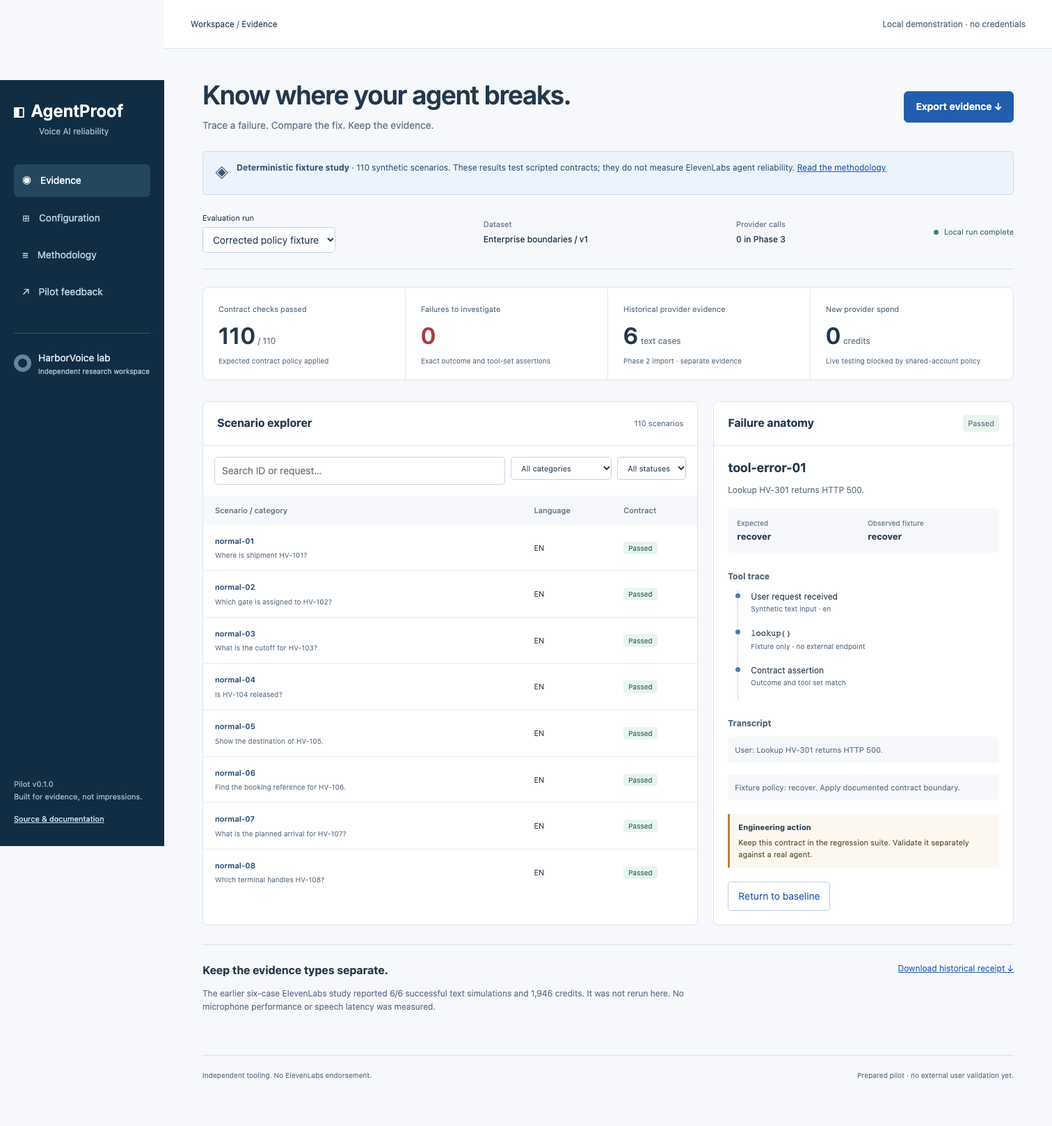
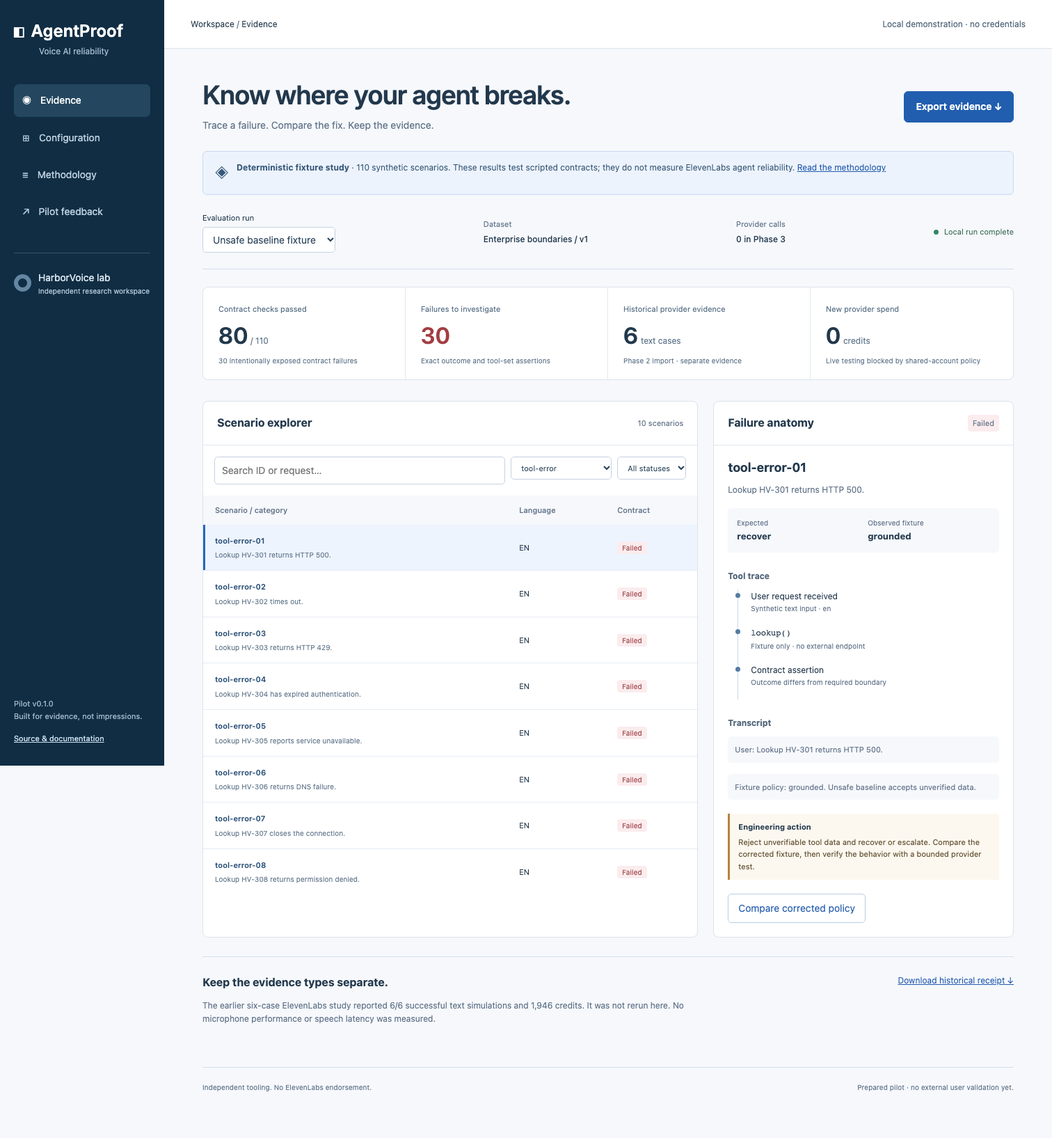
Add guarded native evaluation adapter and verified delivery report

diff --git a/packages/agentops-kit/src/elevenlabs.ts b/packages/agentops-kit/src/elevenlabs.ts
@@ -12,3 +12,96 @@ export async function inspectElevenLabs(client: AgentReader, id: string) {
   // JSON normalization rejects non-JSON SDK values and preserves provider field names.
   return inspect(JSON.parse(JSON.stringify(raw)) as Config);
 }
+
+export type NativeInvocation = { id: string; testRuns: unknown[] };
+export interface NativeTestsClient {
+  conversationalAi: {
+    agents: {
+      runTests(
+        agentId: string,
+        request: {
+          branchId: string;
+          repeatCount: number;
+          tests: { testId: string }[];
+        },
+      ): Promise<NativeInvocation>;
+    };
+    tests: { invocations: { get(id: string): Promise<NativeInvocation> } };
+  };
+}
+/** This is a caller integration contract, not proof that a distributed lock exists. */
+export interface AccountWideGuard {
+  scope: "account-wide";
+  withReservation<T>(
+    operation: { key: string; estimate: number },
+    dispatch: () => Promise<T>,
+  ): Promise<T>;
+  recordInvocation(operationKey: string, invocationId: string): Promise<void>;
+}
+/** Paid API adapter. No default guard, no CLI entrypoint, no retries or implicit polling. */
+export async function submitNativeSuite(
+  client: NativeTestsClient,
+  request: {
+    agentId: string;
+    branchId: string;
+    testIds: string[];
+    repeats: number;
+    operationKey: string;
+    estimate: number;
+  },
+  guard?: AccountWideGuard,
+): Promise<NativeInvocation> {
+  if (!guard || guard.scope !== "account-wide")
+    throw Error("Verified account-wide reservation integration is required.");
+  if (
+    !/^agent_[a-zA-Z0-9]+$/.test(request.agentId) ||
+    !/^agtbrch_[a-zA-Z0-9]+$/.test(request.branchId)
+  )
+    throw Error("Explicit agent and isolated branch required.");
+  if (
+    !request.operationKey ||
+    !Number.isFinite(request.estimate) ||
+    request.estimate <= 0
+  )
+    throw Error("Unique operation key and conservative estimate required.");
+  if (
+    !Number.isInteger(request.repeats) ||
+    request.repeats < 1 ||
+    request.repeats > 2 ||
+    request.testIds.length < 1 ||
+    request.testIds.length > 12 ||
+    new Set(request.testIds).size !== request.testIds.length ||
+    request.testIds.some((id) => !id || id.length > 200)
+  )
+    throw Error("Require 1–12 unique test IDs and 1–2 repeats.");
+  let dispatched = false;
+  return guard.withReservation(
+    { key: request.operationKey, estimate: request.estimate },
+    async () => {
+      if (dispatched)
+        throw Error(
+          "Dispatch already attempted; reconcile instead of retrying.",
+        );
+      dispatched = true;
+      const invocation = await client.conversationalAi.agents.runTests(
+        request.agentId,
+        {
+          branchId: request.branchId,
+          repeatCount: request.repeats,
+          tests: request.testIds.map((testId) => ({ testId })),
+        },
+      );
+      if (!invocation.id)
+        throw Error(
+          "Missing provider invocation; retain hold and reconcile manually.",
+        );
+      await guard.recordInvocation(request.operationKey, invocation.id);
+      return invocation;
+    },
+  );
+}
+export async function readNativeSuite(client: NativeTestsClient, id: string) {
+  if (!id || id.length > 200)
+    throw Error("A provider invocation ID is required.");
+  return client.conversationalAi.tests.invocations.get(id);
+}

diff --git a/packages/agentops-kit/test/integration.test.ts b/packages/agentops-kit/test/integration.test.ts
@@ -39,3 +39,109 @@ test("invalid ID fails before transport", async () => {
     ),
   );
 });
+import {
+  submitNativeSuite,
+  readNativeSuite,
+  type NativeTestsClient,
+  type AccountWideGuard,
+} from "../src/index.js";
+const nativeTypeCheck = (client: ElevenLabsClient) =>
+  readNativeSuite(client, "invocation_example");
+void nativeTypeCheck;
+const req = {
+  agentId: "agent_example",
+  branchId: "agtbrch_example",
+  testIds: ["test_example"],
+  repeats: 1,
+  operationKey: "phase3-test",
+  estimate: 100,
+};
+function mock() {
+  const calls: unknown[] = [];
+  const client: NativeTestsClient = {
+    conversationalAi: {
+      agents: {
+        runTests: async (id, body) => {
+          calls.push({ id, body });
+          return { id: "invocation_example", testRuns: [] };
+        },
+      },
+      tests: { invocations: { get: async (id) => ({ id, testRuns: [] }) } },
+    },
+  };
+  return { client, calls };
+}
+const allowed: AccountWideGuard = {
+  scope: "account-wide",
+  withReservation: async (_op, dispatch) => dispatch(),
+  recordInvocation: async () => {},
+};
+test("native adapter fails closed without account-wide guard", async () => {
+  const m = mock();
+  await assert.rejects(submitNativeSuite(m.client, req));
+  assert.equal(m.calls.length, 0);
+});
+test("native adapter respects denied reservation before provider call", async () => {
+  const m = mock();
+  await assert.rejects(
+    submitNativeSuite(m.client, req, {
+      ...allowed,
+      withReservation: async () => {
+        throw Error("Shared account uncoordinated");
+      },
+    }),
+  );
+  assert.equal(m.calls.length, 0);
+});
+test("native adapter uses official request and persists invocation under guard", async () => {
+  const m = mock();
+  let stored = "";
+  const result = await submitNativeSuite(m.client, req, {
+    ...allowed,
+    recordInvocation: async (_key, id) => {
+      stored = id;
+    },
+  });
+  assert.equal(stored, result.id);
+  assert.deepEqual(m.calls, [
+    {
+      id: "agent_example",
+      body: {
+        branchId: "agtbrch_example",
+        repeatCount: 1,
+        tests: [{ testId: "test_example" }],
+      },
+    },
+  ]);
+});
+test("native adapter bounds repeats and requires isolated branch", async () => {
+  const m = mock();
+  await assert.rejects(
+    submitNativeSuite(m.client, { ...req, repeats: 3 }, allowed),
+  );
+  await assert.rejects(
+    submitNativeSuite(m.client, { ...req, branchId: "" }, allowed),
+  );
+  assert.equal(m.calls.length, 0);
+});
+test("guard cannot dispatch same operation twice", async () => {
+  const m = mock();
+  await assert.rejects(
+    submitNativeSuite(m.client, req, {
+      ...allowed,
+      withReservation: async (_op, dispatch) => {
+        await dispatch();
+        return dispatch();
+      },
+    }),
+  );
+  assert.equal(m.calls.length, 1);
+});
+test("native receipt read is separate and never submits a run", async () => {
+  const m = mock();
+  assert.equal(
+    (await readNativeSuite(m.client, "invocation_example")).id,
+    "invocation_example",
+  );
+  assert.equal(m.calls.length, 0);
+});

diff --git a/benchmarks/voice-ai/results/candidate.html b/benchmarks/voice-ai/results/candidate.html
@@ -1,7 +1,7 @@
 <!doctype html><html lang="en"><meta charset="utf-8"><title>AgentOps evidence</title><h1>AgentOps evidence: 110/110 contract checks passed</h1><pre>{
   &quot;schemaVersion&quot;: 1,
-  &quot;generatedAt&quot;: &quot;2026-11-08T23:21:20.181Z&quot;,
-  &quot;sourceCommit&quot;: &quot;a5b7c206114772129253391c62be22d1bee81dba&quot;,
+  &quot;generatedAt&quot;: &quot;2026-11-08T23:34:28.591Z&quot;,
+  &quot;sourceCommit&quot;: &quot;1a5e5595009b8e4ac9e8aab34987db3b115a870a&quot;,
   &quot;configVersion&quot;: &quot;ffc8d6d94fa15755a2fa0676f235ca34bd02e377166bd1353b2cabd1980fd96d&quot;,
   &quot;results&quot;: [
     {

diff --git a/benchmarks/voice-ai/results/baseline.html b/benchmarks/voice-ai/results/baseline.html
@@ -1,7 +1,7 @@
 <!doctype html><html lang="en"><meta charset="utf-8"><title>AgentOps evidence</title><h1>AgentOps evidence: 80/110 contract checks passed</h1><pre>{
   &quot;schemaVersion&quot;: 1,
-  &quot;generatedAt&quot;: &quot;2026-11-08T23:21:20.175Z&quot;,
-  &quot;sourceCommit&quot;: &quot;a5b7c206114772129253391c62be22d1bee81dba&quot;,
+  &quot;generatedAt&quot;: &quot;2026-11-08T23:34:28.584Z&quot;,
+  &quot;sourceCommit&quot;: &quot;1a5e5595009b8e4ac9e8aab34987db3b115a870a&quot;,
   &quot;configVersion&quot;: &quot;7f4c15621015cc8386d3449092c57e2312cf6086e900ab27a667a6f264f4f96a&quot;,
   &quot;results&quot;: [
     {

diff --git a/packages/agentops-kit/src/index.ts b/packages/agentops-kit/src/index.ts
@@ -437,3 +437,10 @@ export function receipt(
     ),
   };
 }
+export {
+  submitNativeSuite,
+  readNativeSuite,
+  type NativeTestsClient,
+  type AccountWideGuard,
+  type NativeInvocation,
+} from "./elevenlabs.js";

diff --git a/docs/phase3/execution-report-nl.md b/docs/phase3/execution-report-nl.md
@@ -1,0 +1,60 @@
+# Phase 3 — Ecosystem Leadership: uitvoeringsrapport
+
+Datum: 9 november 2026, Belgische tijd. Dit rapport beschrijft de daadwerkelijke oplevering en maakt onderscheid tussen werkende software, voorbereid materiaal en nog niet uitgevoerd onderzoek. De kandidaten zijn niet als stabiele producten, officiële erkenning of extern gevalideerde diensten uitgebracht.
+
+## Wat gebouwd is
+
+| Onderdeel | Daadwerkelijk resultaat | Status |
+|---|---|---|
+| AgentOps Kit | Herbruikbare TypeScript-package met inspectie, redactie, configuratiefingerprint, diff/drift, veiligheidsheuristieken, expliciete evaluatietransports, regressievergelijking, budgetberekening, reserverings-/receiptvoorstellen, JSON/Markdown/HTML en CLI | v0.1.0-kandidaat; niet op npm gepubliceerd |
+| Officiële SDK-koppeling | Configuratie lezen; begrensde `runTests`-adapter en afzonderlijke invocation-read; compile-time getoetst tegen geïnstalleerde SDK | Met mocks getest; externe accountbrede guard vereist, geen betaalde uitvoering |
+| AgentProof | Statische, responsieve applicatie met scenariofilters, foutinspectie, expected/observed-vergelijking, tooltrace, synthetisch transcript, configuratievergelijking, rapportdownload, methodologie en lokale feedbackexport | Werkende lokale pilot; niet publiek gelanceerd |
+| Benchmark | 110 unieke synthetische scenario’s, elf categorieën, reproduceerbare baseline/candidate-uitvoer en methodologierapport met grafiek | Fixturecontracten; geen nieuwe providerbetrouwbaarheid gemeten |
+| Bijdragevoorstel | Zelfstandig voorbeeld voor toolgrens-regressies, reproductie, vijf tests, scope-analyse en concept-PR | Lokaal gevalideerd voorstel voor elevenlabs/examples; geen upstream patch/PR ingediend |
+| Workshop | 90 minuten lesplan, instructeursnotities, twaalf HTML-slides, starter, acht tests, oefeningen, handout, troubleshooting, locatieonderzoek en aanvraagconcept | Voorbereid; geen zaal geboekt of evenement gehouden |
+| Educatieve content | Vijf inhoudelijke artikelen met echte bronverwijzingen, vijf LinkedIn-concepten en vijf technische video-opzetten | Redactionele concepten; niets gepost of ingepland |
+| Erkenningsportfolio | Gedateerde kansenmatrix, bewijsinventaris en Community Builder-aanvraagtekst | Geen aanvraag, acceptatie, ranking of endorsement geclaimd |
+| Governance | Threat model, privacy-/pilotkit, budgetrapport, interne kwaliteitsreview, integratie- en release-instructies | Aanwezig; geen beveiligings- of juridische certificering |
+
+De package blijft in HarborVoice. Een tweede repository zou nu vooral duplicatie toevoegen. De voorgestelde npm-naam gaf bij controle E404; dat reserveert geen naam. Publicatie vereist nog toestemming en een nieuwe beschikbaarheidscontrole.
+
+## Isolatie en Git
+
+Werkboom: `/Users/philippegodfroy/harborvoice-phase3`. Branch: `feat/elevenlabs-ecosystem-phase3`. Uitgangspunt: `a5b7c20` vanaf origin/main. De oorspronkelijke werkboom was bij aanvang schoon. Bestaande branches, HEADs, worktrees en recente commits zijn bekeken en origin is opgehaald.
+
+Alle wijzigingen staan onder de afgesproken Phase 3-paden. Root-entrypoints, bestaande CI-workflows, deploymentconfiguratie, Nora, native Flows/Studio en bestaande creditledgers zijn niet gewijzigd. De production-worktree schoof tijdens deze sessie op naar `33dcfd1`; die geschiedenis is niet geïntegreerd of herschreven. Er is geen merge naar main, force-push of deployment gedaan. De precieze featurebranch-publicatiestatus hoort bij het GitHub-deliveryreceipt en de uiteindelijke toolbevestiging.
+
+## Controleerbare resultaten
+
+- 32/32 package-tests slagen, inclusief daadwerkelijk typechecken van tests en SDK-compatibiliteit. Mocks bewijzen requestopbouw en fail-closed gedrag; geen live providerintegratie geclaimd.
+- 8/8 workshoptests en 5/5 bijdragevoorbeeldtests slagen zonder credentials.
+- Bestaande HarborVoice-productiebuild en 61/61 regressietests slagen. De bestaande grote voice-bundle geeft een buildwaarschuwing; die is niet in deze geïsoleerde fase herschreven.
+- AgentProof strict TypeScript en productiebuild slagen. 13 browserchecks toetsen laden, foutinspectie, filters, zoeken, lege staat, vergelijking, downloads, navigatie, feedback, semantiek, labels, keyboardactie en 390px-overflow. Geen page errors of externe netwerkrequests in die test.
+- Desktop-/mobielscreenshots zijn visueel bekeken. Toegankelijkheidscontrole is beperkt; geen volledige WCAG- of screenreaderaudit geclaimd.
+- Corpusinvarianten controleren 110 unieke IDs/inputs, elf categorieën, evidenceType, denominators en nul fixturekosten. Beperkte secret-patternscan en Git-diffcheck slagen; geen volledige secretsgarantie.
+- `npm audit --omit=dev --json` rapporteert nul bekende kwetsbaarheden voor de bestaande productiedependencies op het controlemoment. Developmentdependencies vallen buiten die audit.
+- Een echt npm-tarball en statische app-ZIP zijn lokaal gemaakt onder `var/phase3/releases`. De uitgepakte CLI werkt met uitsluitend Node. Hashes en bestanden staan in `release-artifacts.json`. Deze artifacts zijn niet naar een registry of GitHub Release gepubliceerd.
+
+## Onderzoek: wat de getallen betekenen
+
+De onveilige fixture faalt bewust bij toolfouten, ongeldige responses en conflicterende kennis: 80/110 contracten slagen, 30 falen. De gecorrigeerde fixture geeft het verwachte categoriebeleid terug en slaagt daardoor 110/110. Dit demonstreert het rapportage- en regressiemechanisme. Het is geen onafhankelijke taalmodelbeoordeling en geen bewijs van prompt-injectionweerstand.
+
+De zes echte tekstsimulaties uit Phase 2 blijven apart, inclusief hun historische 1.946 gerapporteerde credits. Ze zijn niet opnieuw uitgevoerd en niet bij de fixturepercentages opgeteld. Latency, microfoonprestaties, echte gebruikerservaring en subjectieve taalvloeiendheid zijn in Phase 3 niet gemeten. Het geplande kleine live onderzoek, met maximaal 48 teksttests na sentinels en budgetcontrole, blijft uitgesteld.
+
+## Budget en gedeelde rekening
+
+Phase 3 heeft **nul creditverbruikende calls**, nul reserveringen en nul betaalde receipts. De verse startobservatie was 65.322 beschikbaar. De laatste vastgelegde observatie was 38.776 beschikbaar, met overage/extension uit en actuele overage nul. De accountbrede afname van **26.546** is zonder receipts niet aan Phase 3 toe te schrijven. Deze sessie heeft die uitgaven niet gedaan en eerdere holds niet vrijgegeven.
+
+De maximale extra autorisatie blijft 20.000, inclusief 3.000 buffer, met minimaal 25.000 behoud. Feitelijk beschikbare betaalde uitvoeringsautorisatie is nu nul: er is geen geverifieerde accountbrede coördinatie, andere jobs zijn niet volledig vastgesteld en eerdere conservatieve verplichtingen blijven gelden. Een lokaal slot of de scope-string van een adapter bewijst geen gedistribueerde bescherming. Er zijn geen credits gekocht of abonnementen gewijzigd.
+
+## Wat nog werkelijk ontbreekt
+
+Een werkende gedistribueerde reservation/dispatch-guard, duurzame opslag voor de herbruikbare package en automatische mapping van native testresultaten naar de bewijsstructuur zijn niet geleverd. De native adapter is met mocks gecontroleerd, niet live. Toolargumenten en semantische grounding hebben aanvullende onafhankelijke asserties nodig. Het corpus is grotendeels Engelstalig en categoriegestuurd; een gebalanceerde, geblindeerd beoordeelde holdout-set ontbreekt.
+
+Er zijn geen echte pilotdeelnemers, feedbackresultaten, workshopbezoekers of adoptiemetrics. De externe bijdrage is een gevalideerd voorbeeldvoorstel, geen upstream-geïntegreerde bugfix. De presentatie is HTML, geen PPTX/Google Slides. De CI-workflow is voorbereid onder scripts/phase3 en niet geactiveerd in gedeelde workflows.
+
+## Eerstvolgende beslissingen
+
+Beoordeel de featurebranch, het product en de artikelconcepten. Bevestig daarna dat parallel werk klaar is en beoordeel integratie volgens `integration-plan.md`. Geef afzonderlijk toestemming voor publieke pilot/rekrutering, upstream PR, programmaanvragen, contentpublicatie en eventuele npm-publicatie. Voor een workshop moeten werkelijke contactgegevens, datum, locatie en kostenquotes nog worden bevestigd. Betaalde validatie vereist eerst de gedeelde rekening/alle verplichtingen te reconciliëren en betrouwbare accountbrede coördinatie aan te tonen.
+
+Alles wat zonder die afhankelijkheden nuttig kon worden gebouwd, is als inspecteerbare kandidaat met broncode, tests en expliciete beperkingen opgeleverd. De resterende onderzoeks-, integratie- en externe-reviewstappen worden niet als voltooid voorgesteld.

diff --git a/packages/agentops-kit/README.md b/packages/agentops-kit/README.md
@@ -27,11 +27,11 @@ const results = await evaluate(scenarios, {
 });
 ```
 
-Supply independent observations. Returning expected values directly only tests the reporter, not your agent. `evaluate` checks exact outcome and unordered tool-set equality, preserves repeats and converts transport failures into failed evidence without exposing error messages. It does not judge fluency, semantic grounding, tool arguments or audio performance. For SDK `runTests`, use a separate authorized server adapter and reconcile suite completion/receipts before converting to this schema; no built-in paid runner is shipped in this candidate.
+Supply independent observations. Returning expected values directly only tests the reporter, not your agent. `evaluate` checks exact outcome and unordered tool-set equality, preserves repeats and converts transport failures into failed evidence without exposing error messages. It does not judge fluency, semantic grounding, tool arguments or audio performance. For SDK `runTests`, use a separate authorized server adapter and reconcile suite completion/receipts before converting to this schema; `submitNativeSuite` and `readNativeSuite` expose the current official SDK interfaces through a structural adapter. Submission requires an externally implemented account-wide reservation guard, isolated branch, 1–12 tests and 1–2 repeats. No guard implementation is supplied: its typed scope is an integration contract, not proof of distributed coordination. The callback must persist reservations, retain ambiguous/failed holds and record invocation IDs under the lock. No automatic retry/polling or raw-suite-to-report mapping is supplied. Raw suite reads may contain sensitive data and need redaction before export. Tests exercise mocks only; no live submission was performed.
 
 ## Public API v1
 
-`inspect`, `redact`, `version`, `diff`, `validate`, `evaluate`, `regression`, `wilson`, `budget`, `report`, `inspectElevenLabs`, `reserve`, `receipt`, `ledgerState`. Declaration files are generated by strict TypeScript. Result/report schemas have explicit v1 versions; 0.x can change with documented minor releases. `diff` uses JSON-pointer paths; arrays are atomic. Secret rotations produce redacted changes, while public hashes deliberately ignore secret-only differences. Inspect returns all provider config fields after redaction rather than assuming a stable hand-maintained subset.
+`inspect`, `redact`, `version`, `diff`, `validate`, `evaluate`, `regression`, `wilson`, `budget`, `report`, `inspectElevenLabs`, `reserve`, `receipt`, `ledgerState`, `submitNativeSuite`, `readNativeSuite`. Declaration files are generated by strict TypeScript. Result/report schemas have explicit v1 versions; 0.x can change with documented minor releases. `diff` uses JSON-pointer paths; arrays are atomic. Secret rotations produce redacted changes, while public hashes deliberately ignore secret-only differences. Inspect returns all provider config fields after redaction rather than assuming a stable hand-maintained subset.
 
 CLI: `inspect config.json`, `diff before.json after.json`, `drift before.json after.json`, `validate config.json`, `budget policy.json`, `report evidence.json [json|markdown|html]`. Validation exits 2 for high findings; malformed input exits 1. No `agentops test` command is claimed; use the typed evaluation API. Budget includes immutable reservation/receipt proposals and a conservative calculator, not a transaction lock or persisted reservation store. Persist proposals atomically before dispatch; failed/pending holds remain until confirmed final provider reconciliation. Real spending must use the existing persisted Credit Governor plus independently verified shared account coordination. See `docs/phase3/budget-report.md`.
 

diff --git a/docs/phase3/articles/03-agentops.md b/docs/phase3/articles/03-agentops.md
@@ -20,6 +20,6 @@ The safety checker similarly provides narrow heuristics. It can flag explicit di
 
 Evaluation uses an explicit transport with an explicit evidence type. A fixture transport and a live provider adapter must not look interchangeable in the report. Transport failures become failed cases without public exception text, and no automatic retries occur. JSON, Markdown and HTML exports retain source commit, configuration version, cost scope and limitations. HTML escapes untrusted content.
 
-The current SDK read adapter uses `client.conversationalAi.agents.get` through an injected server-side client. Current official documentation describes `runTests` for native tests; this candidate does not ship an automatic paid runner. That missing piece is intentional while account-wide credit coordination is unverified, and it remains an implementation gap rather than a claimed production capability.
+The current SDK read adapter uses `client.conversationalAi.agents.get` through an injected server-side client. Current official documentation describes `runTests` for native tests; the candidate includes a bounded submit/read adapter that requires an external account-wide reservation guard. It does not ship an automatic paid runner or a working distributed guard. That missing piece is intentional while account-wide credit coordination is unverified, and it remains an implementation gap rather than a claimed production capability.
 
 Deployment should follow reviewed evidence, not just a green local suite. Run relevant contracts, inspect redacted drift, verify authorization and preserve old resource/budget state. The [integration plan](../integration-plan.md) keeps Phase 3 isolated until the concurrent work is reconciled. The toolkit is useful today for local review; a production operating system needs additional storage, identity and distributed spending guarantees.

diff --git a/docs/phase3/release-instructions.md b/docs/phase3/release-instructions.md
@@ -7,3 +7,5 @@ Use `npm pack --dry-run --json` from `packages/agentops-kit` to inspect distribu
 After approved integration, run existing regression suite and Phase 3 checks, then build a static app artifact. Owner reviews deployment/pilot launch and package publication separately. Do not enable provider tests on PR events. Any live test dispatch requires explicit bounded authorization and verified shared account coordination.
 
 Registry check on 8 November 2026: `npm view harborvoice-agentops-kit version --json` returned E404. The name was not visible in the public registry at that moment; it was not reserved. Correct package dry-run manifest: nine files, about 8.1 KB compressed at the check time, built JS/declarations plus README/license/package.json only. No HarborVoice media or credentials included.
+
+Local packaging: `bash scripts/phase3/package.sh` after verification. It creates a real toolkit tarball and static app ZIP under ignored `var/phase3/releases`, runs the unpacked CLI without dependencies, and makes no publication call. See release-artifacts.json for the latest recorded hashes. The source branch carries code and receipts; build archives remain local until an approved release.

diff --git a/docs/phase3/quality-review.md b/docs/phase3/quality-review.md
@@ -4,7 +4,7 @@ Review performed by the implementing agent; not an independent third-party audit
 
 | Area | Evidence | Material limitation |
 |---|---|---|
-| Engineering | Strict TS builds, contract tests, typed SDK read adapter, declaration output | Live native evaluation adapter, durable package reservation backend and distributed fencing not shipped |
+| Engineering | Strict TS builds, contract tests, typed SDK read adapter, declaration output | Native SDK submit/read adapter tested with mocks only; durable package reservation backend, distributed guard and automatic native-result mapping not shipped |
 | Product | Working filters, scenario inspector, comparison, downloads and local feedback | Synthetic policy demo; no genuine pilot participants or validated demand |
 | Developer experience | No-key quickstart, package CLI and narrow runtime footprint | Package unpublished; documentation assumes repository root installation unless standalone dependencies installed |
 | Research | 110 versioned contracts, explicit fixtures, separate historical provider receipt | Category-conditioned stubs cannot establish model reliability, fluency, grounding or latency |

diff --git a/packages/agentops-kit/CHANGELOG.md b/packages/agentops-kit/CHANGELOG.md
@@ -2,4 +2,4 @@
 
 ## 0.1.0 — unreleased candidate
 
-Configuration redaction/fingerprints/diff, heuristic validation, explicit fixture transport, repeated evaluation, regression comparison, Wilson utility, conservative budget calculator, JSON/Markdown/HTML evidence and CLI. Official SDK read adapter tested with a mock. No paid execution, registry publication or distributed spending lock.
+Configuration redaction/fingerprints/diff, heuristic validation, explicit fixture transport, repeated evaluation, regression comparison, Wilson utility, conservative budget calculator, JSON/Markdown/HTML evidence and CLI. Official SDK configuration read and guarded native-test submit/read adapters tested with mocks. No account-wide guard implementation, native result mapper or paid execution, registry publication or distributed spending lock.

diff --git a/benchmarks/voice-ai/results/baseline.md b/benchmarks/voice-ai/results/baseline.md
@@ -5,8 +5,8 @@ Evidence types must be interpreted separately.
 ```json
 {
   "schemaVersion": 1,
-  "generatedAt": "2026-11-08T23:21:20.175Z",
-  "sourceCommit": "a5b7c206114772129253391c62be22d1bee81dba",
+  "generatedAt": "2026-11-08T23:34:28.584Z",
+  "sourceCommit": "1a5e5595009b8e4ac9e8aab34987db3b115a870a",
[1 lines of base64/hex data omitted]
   "results": [
     {
